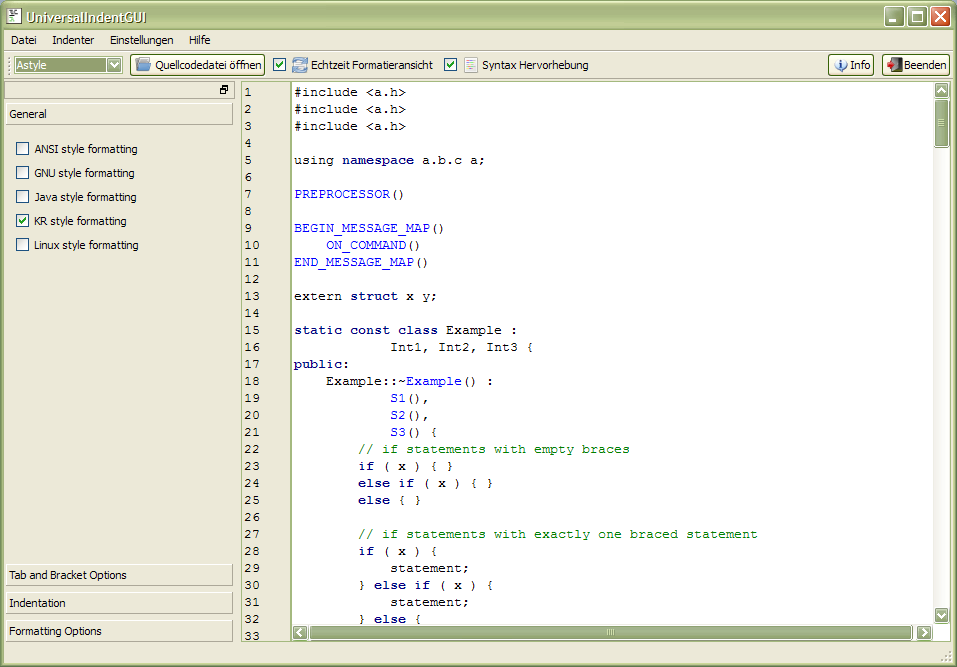
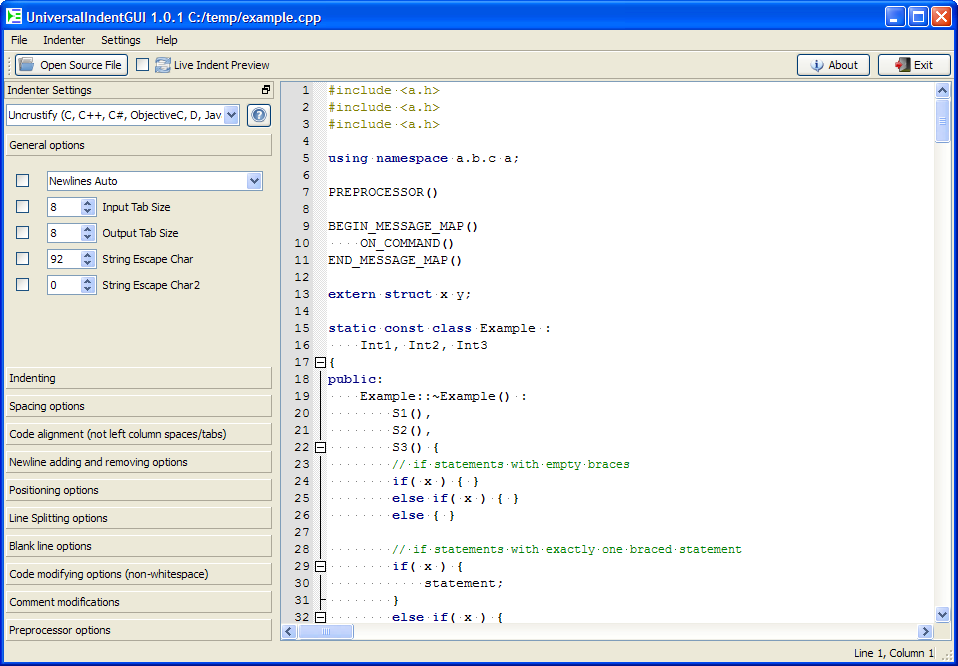
Updated the web page. Updated the screen shots also. The Linux and Mac ones are missing.

Changed region(s): [[0.0, 0.0, 1.0, 1.0]]

diff --git a/website/htmlhead.html b/website/htmlhead.html
@@ -7,5 +7,5 @@
 	<meta http-equiv="Content-Language" content="en-us" />
 	<meta http-equiv="Content-Type" content="text/html; charset=iso-8859-1" />
 	<link rel="StyleSheet" href="styles.css" type="text/css" media="screen" />
-	<link href="images/icon2.ico" rel="shortcut icon" />
+	<link href="images/universalIndentGUI.ico" rel="shortcut icon" />
 </head>

diff --git a/website/index.php b/website/index.php
@@ -21,16 +21,27 @@ include("htmlhead.html");
 		<div id="main">
 			<div id="content">
     			<p style="margin-left:5pt; font-size:4pt; color:grey;">
-                    __Ever concerned about how your code looks like?<br />
-                    Ever heard of different coding styles, for example K&amp;R?<br />
-                    _____Ever received code from someone else who didn't care about code formatting?<br />
-                    __Ever tried to configure a code indenter to convert such code to your coding style?<br />
-                    Ever got bored by that tedious "changing a parameter"-"call the indeter"-"try and error" procedure?<br />
+                    Ever concerned about how your code looks like?<br />
+                    &nbsp;Ever heard of different coding styles, for example K&amp;R?<br />
+                    &nbsp;&nbsp;&nbsp;Ever received code from someone else who didn't care about code formatting?<br />
+                    &nbsp;&nbsp;&nbsp;&nbsp;Ever tried to configure a code indenter to convert such code to your coding style?<br />
+                    &nbsp;&nbsp;&nbsp;&nbsp;&nbsp;Ever got bored by that tedious &quot;changing a parameter&quot;-&quot;call the indeter&quot;-&quot;try and error&quot; procedure?<br />
+                    <br />Help is close to you.
                 </p>
 				<h1>UniversalIndentGUI</h1>
-				<p>... is a cross platform compatible GUI for several code formatters, beautifiers and indenters, e.g. 
-                GreatCode, AStyle (Artistic Style), GNU Indent, BCPP and others. Its main feature is a live preview to 
-                directly see how the selected formatting options affect the source code.</p>
+				<p>
+                    ... offers a live preview for setting the parameters of nearly any indenter.
+                    You change the value of a parameter and directly see how your reformatted code will look like. Save your beauty looking
+                    code or create an anywhere usable batch/shell script to reformat whole directories or just one file even out of the
+                    editor of your choice that supports external tool calls.<br /><br />
+
+                    Many free available code beautifier, formatter and indenter are currently supported, like GNU Indent, Uncrustify,
+                    Artistic Styler, PHP Stylist, Ruby Beautify, HTML Tidy and many other (look at <a href="features.php">features</a> for complete list).
+                    Currently not supported indenters can be easyly added by creating a configuration file for them.<br /><br />
+
+                    Thus UniversalIndentGUI is open for nearly any new indenter and programming languages. Give it a try.
+                    Perhaps you'll also find an indenter for your programming language that you even didn't know that it exists.
+                </p>
 				<br />
 				<h2>News</h2>
 				

diff --git a/website/features.php b/website/features.php
@@ -81,6 +81,8 @@ include("htmlhead.html");
 					<li>[change] Improved the &quot;new version available&quot; check.</li>
 					<li>[change] On Mac and Linux a one pixel frame was shown around the whole screen when about dialog is visible. Removed that.</li>
 					<li>[change] Updated to Uncrustify version 0.49 from SVN repository.</li>
+					<li>[change] Using a new logo icon for UniversalIndentGUI. The logo was created by Erwan &quot;leg&quot;. Thanks!</li>
+					<li>[fix] Bug ID <a href="issue/2173527" target="_blank">2173527</a> : Could no load Artistic Style config file properly if both parameters &quot;--brackets=linux&quot; and &quot;--brackets=break-closing&quot; were set.</li>
 					<li>[fix] The distributed version of GNU Indent was using a misspelled configuration file, thus lieve preview didn't correctly work. Using original GNU Win32 version now.</li>
 					<li>[fix] In version 1.0.0 the creation of batch files for indenters undet Windows always created a bash/shell script instead of batch.</li>
 					<li>[fix] Keyboard shortcuts for enabling/disabling &quot;Live Preview&quot; and syntax highlighting didn't work.</li>

diff --git a/website/screenshots.php b/website/screenshots.php
@@ -29,7 +29,7 @@ include("htmlhead.html");
 				<a href="images/screenshot1.png" target="_blank">
                     <img src="images/screenshot1.jpg" alt="WinXPScreenshot1" width="500"/>
                 </a>
-				<p>UniversalIndentGUI under XP with preview turned on.</p>
+				<p>UniversalIndentGUI under XP.</p>
 
 				<br />
 				<a href="images/screenshot2.png" target="_blank">
